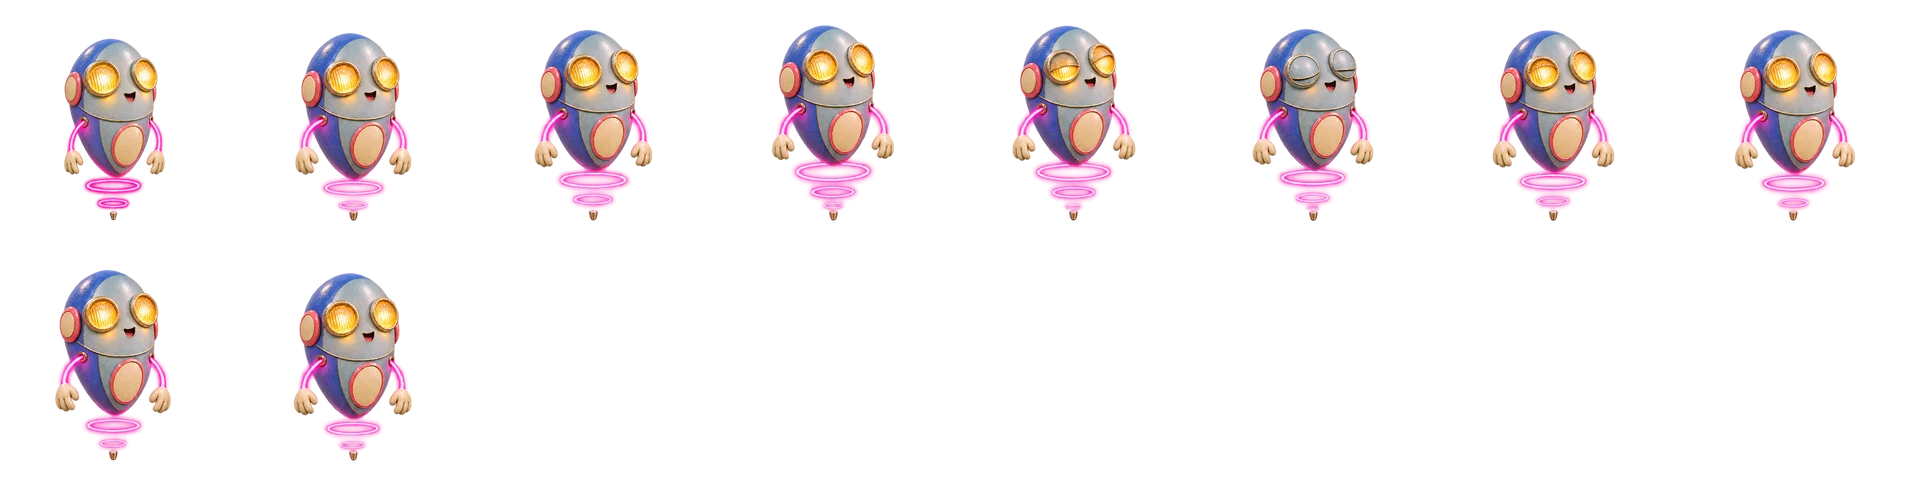
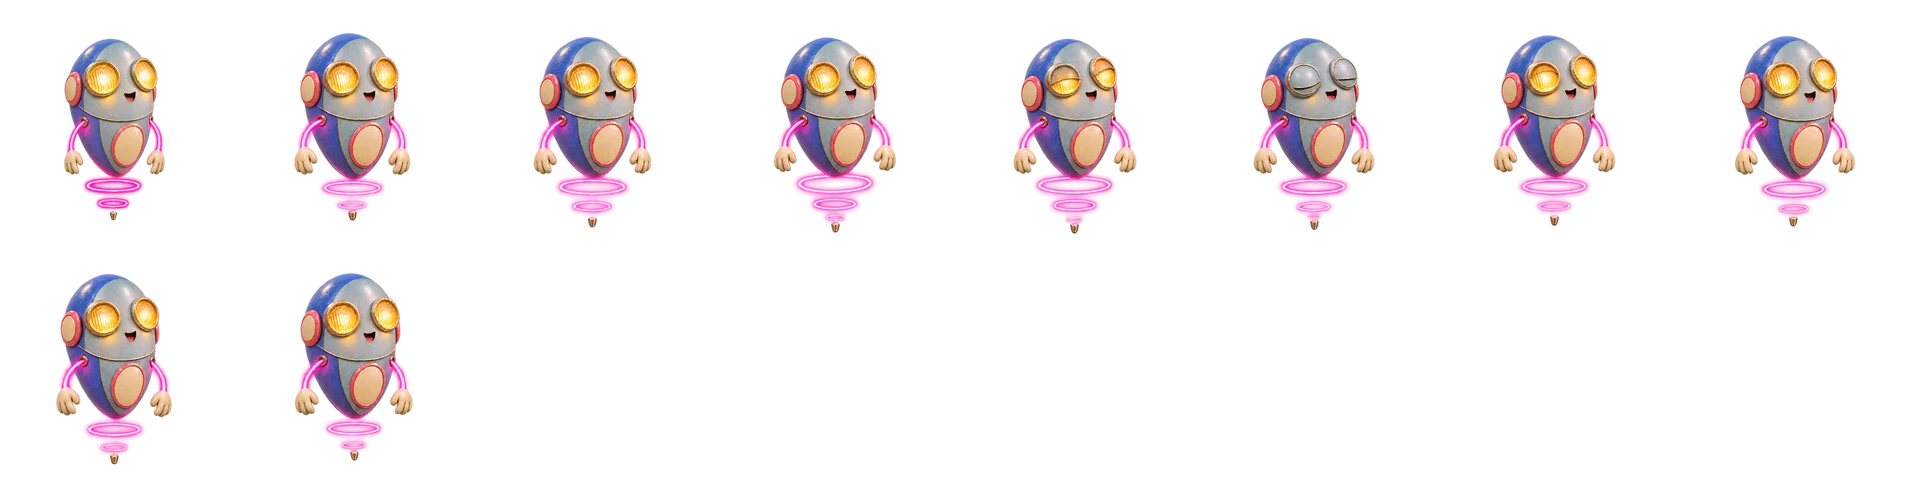
BOT-5: Joybot's idle frames sit on his home pose (no more jerky idle)
The owner saw idle, the animation he plays most, looking a little jerky, and guessed its frames were never aligned by
difference. They weren't: idle was aligned by me, and its frames carried a bob in the art (his whole body, rings
included, up to 13 px higher mid-loop), stepping up to 7 px a frame at 8 fps on top of his smooth hover. Sheet v5
(art aligned_v5_20261120) slides each idle frame onto home by least difference (the owner's maximum-black method);
frame-to-frame jumps 3.6 px mean / 8 max -> 1.1 / 3, as steady as his own best sets. Only idle.webp changes.

diff --git a/tools/joybot/pack_joybot.py b/tools/joybot/pack_joybot.py
@@ -10,7 +10,7 @@ So each animation is cut out into its own small picture, opened only while he pl
 Input is the folder the alignment work wrote (it holds sheet/joybot.png and joybot.animations.json).
 Edit joybot.animations.json (order, speed, "general", which frames loop), run this again, rebuild.
 
-    python tools/joybot/pack_joybot.py "art/Joybot-sprite-assets/aligned_v4_20261115"
+    python tools/joybot/pack_joybot.py "art/Joybot-sprite-assets/aligned_v5_20261120"
 
 Needs Pillow and numpy.
 """
